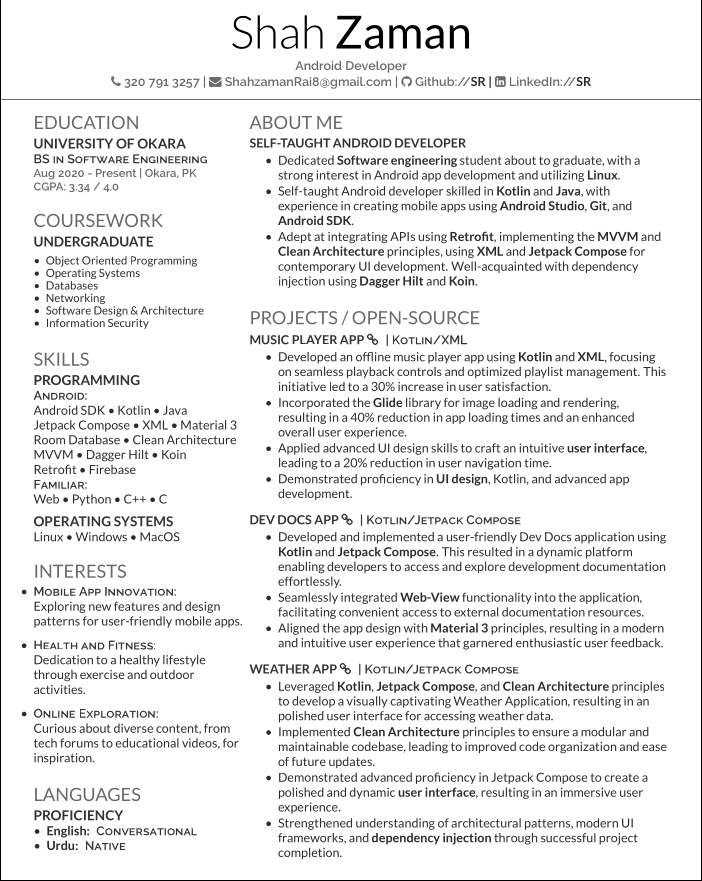
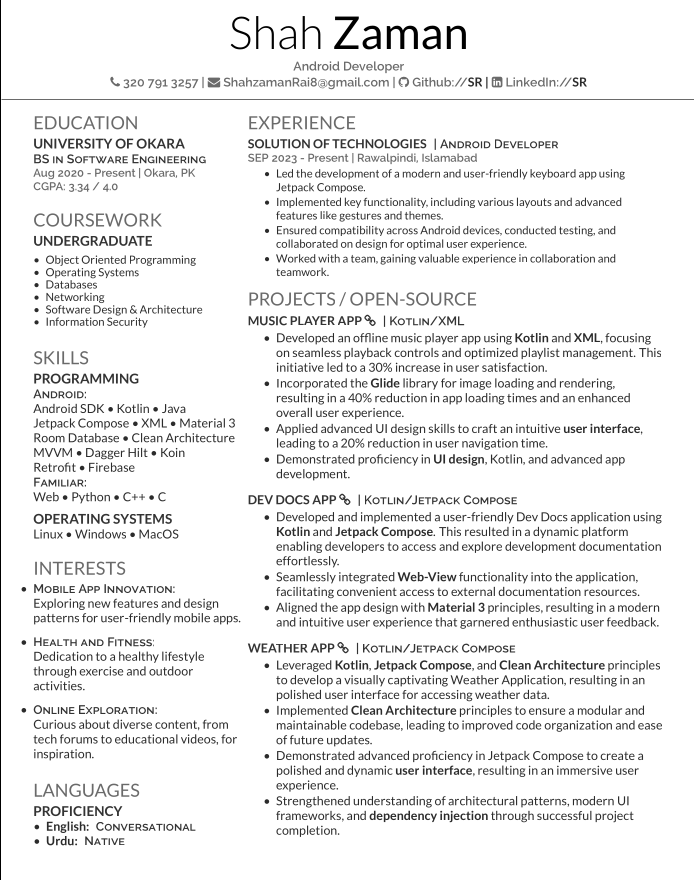
Updated Resume

diff --git a/deedy_resume-openfont.tex b/deedy_resume-openfont.tex
@@ -117,19 +117,19 @@ Linux \textbullet{} Windows \textbullet{} MacOS
 \begin{minipage}[t]{0.66\textwidth} 
 
 %%%%%%%%%%%%%%%%%%%%%%%%%%%%%%%%%%%%%%
-%     ABOUT ME
+%     Experience
 %%%%%%%%%%%%%%%%%%%%%%%%%%%%%%%%%%%%%%
 
-\section{About Me}
-\runsubsection{Self-Taught Android Developer}
-\descript{}
+\section{Experience}
+\runsubsection{Solution of Technologies} \descript{| Android Developer}
+\location{SEP 2023 - Present | Rawalpindi, Islamabad}
 \vspace{10pt} % Hacky fix for awkward extra vertical space
 \begin{tightemize}
-\item Dedicated \textbf{Software engineering} student about to graduate, with a strong interest in Android app development and utilizing \textbf{Linux}.
-\item Self-taught Android developer skilled in \textbf{Kotlin} and \textbf{Java}, with experience in creating mobile apps using \textbf{Android Studio}, \textbf{Git}, and \textbf{Android SDK}.
-\item Adept at integrating APIs using \textbf{Retrofit}, implementing the \textbf{MVVM} and \textbf{Clean Architecture} principles, using \textbf{XML} and \textbf{Jetpack Compose} for contemporary UI development. Well-acquainted with dependency injection using \textbf{Dagger Hilt} and \textbf{Koin}.
+\item Led the development of a modern and user-friendly keyboard app using Jetpack Compose.
+\item Implemented key functionality, including various layouts and advanced features like gestures and themes.
+\item Ensured compatibility across Android devices, conducted testing, and collaborated on design for optimal user experience.
+\item Worked with a team, gaining valuable experience in collaboration and teamwork.
 \end{tightemize}
-\sectionsep
 
 %%%%%%%%%%%%%%%%%%%%%%%%%%%%%%%%%%%%%%
 %     PROJECTS
